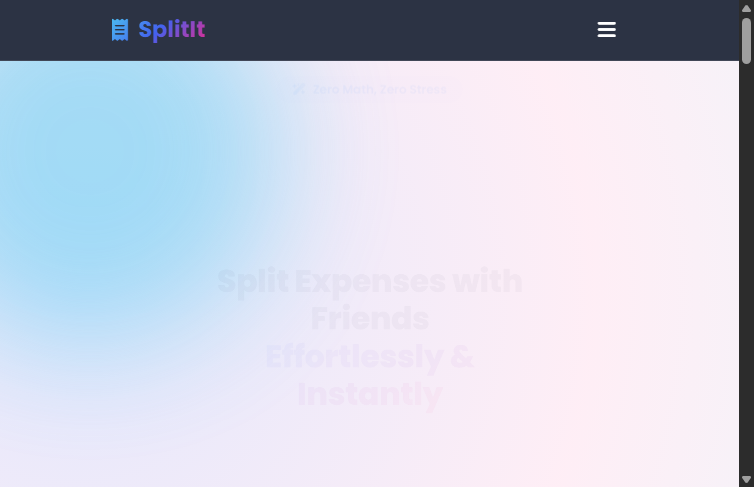
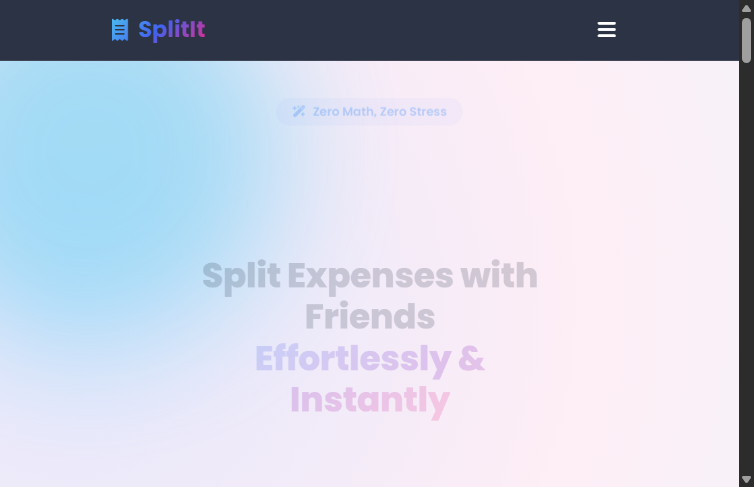
Fix image aspect ratio and framing in Friends Sharing section

Changed region(s): [[0.2745, 0.5236, 0.7321, 0.6776], [0.3355, 0.7084, 0.6406, 0.8624], [0.366, 0.2156, 0.6101, 0.2464]]

diff --git a/index.php b/index.php
@@ -566,14 +566,14 @@
             <h2 class="fw-bold mb-4" data-aos="fade-up">Friends Sharing Good Times</h2>
 
             <div class="row justify-content-center">
-                <div class="col-lg-8" data-aos="zoom-in" data-aos-duration="900">
-                    <div id="expenseCarousel" class="carousel slide slider-image-card" data-bs-ride="carousel">
+                <div class="col-md-8 col-lg-6" data-aos="zoom-in" data-aos-duration="900">
+                    <div id="expenseCarousel" class="carousel slide slider-image-card" data-bs-ride="carousel" style="max-width: 560px; margin: 0 auto; background: #ffffff;">
                         <div class="carousel-inner">
-                            <div class="carousel-item active">
-                                <img src="images/11.png" class="d-block w-100" alt="Friends having a meal and sharing costs" style="max-height: 440px; object-fit: cover;">
-                                <div class="p-4 bg-white text-center">
+                            <div class="carousel-item active p-3 bg-white text-center">
+                                <img src="images/11.png" class="img-fluid rounded-4" alt="Friends splitting expenses" style="max-height: 480px; width: 100%; object-fit: contain;">
+                                <div class="pt-3 pb-2 bg-white text-center">
                                     <h5 class="fw-bold text-dark mb-1">Weekend Getaway & Dining Out</h5>
-                                    <p class="text-muted mb-0">"John, Sarah, and Mike split stay, travel and food without any spreadsheet headache!"</p>
+                                    <p class="text-muted mb-0 small">"John, Sarah, and Mike split stay, travel, and food without any spreadsheet headache!"</p>
                                 </div>
                             </div>
                         </div>
